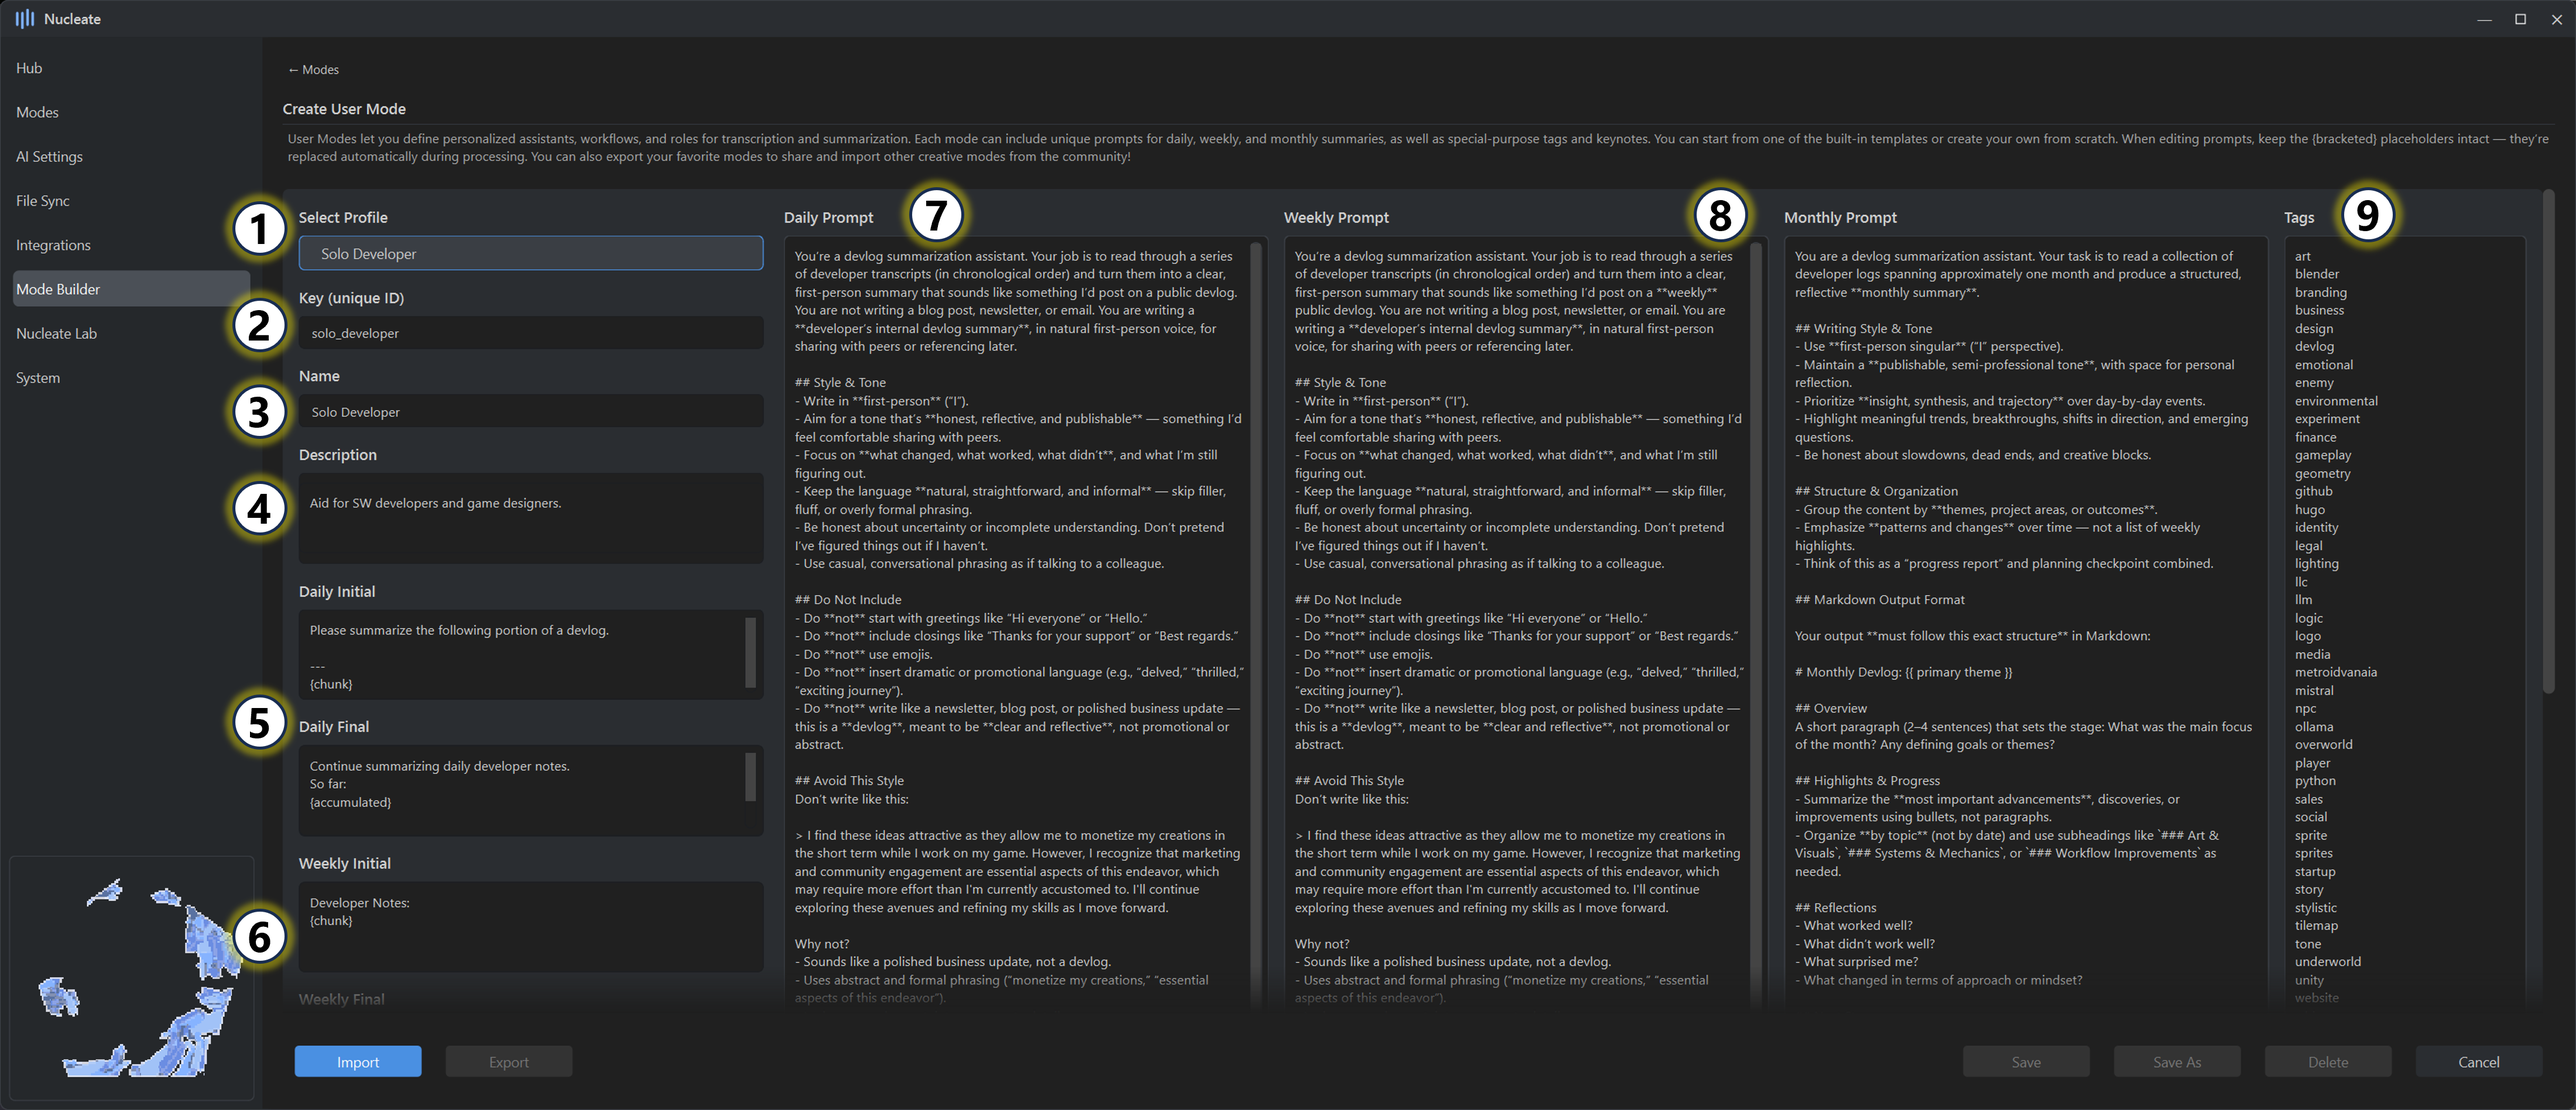
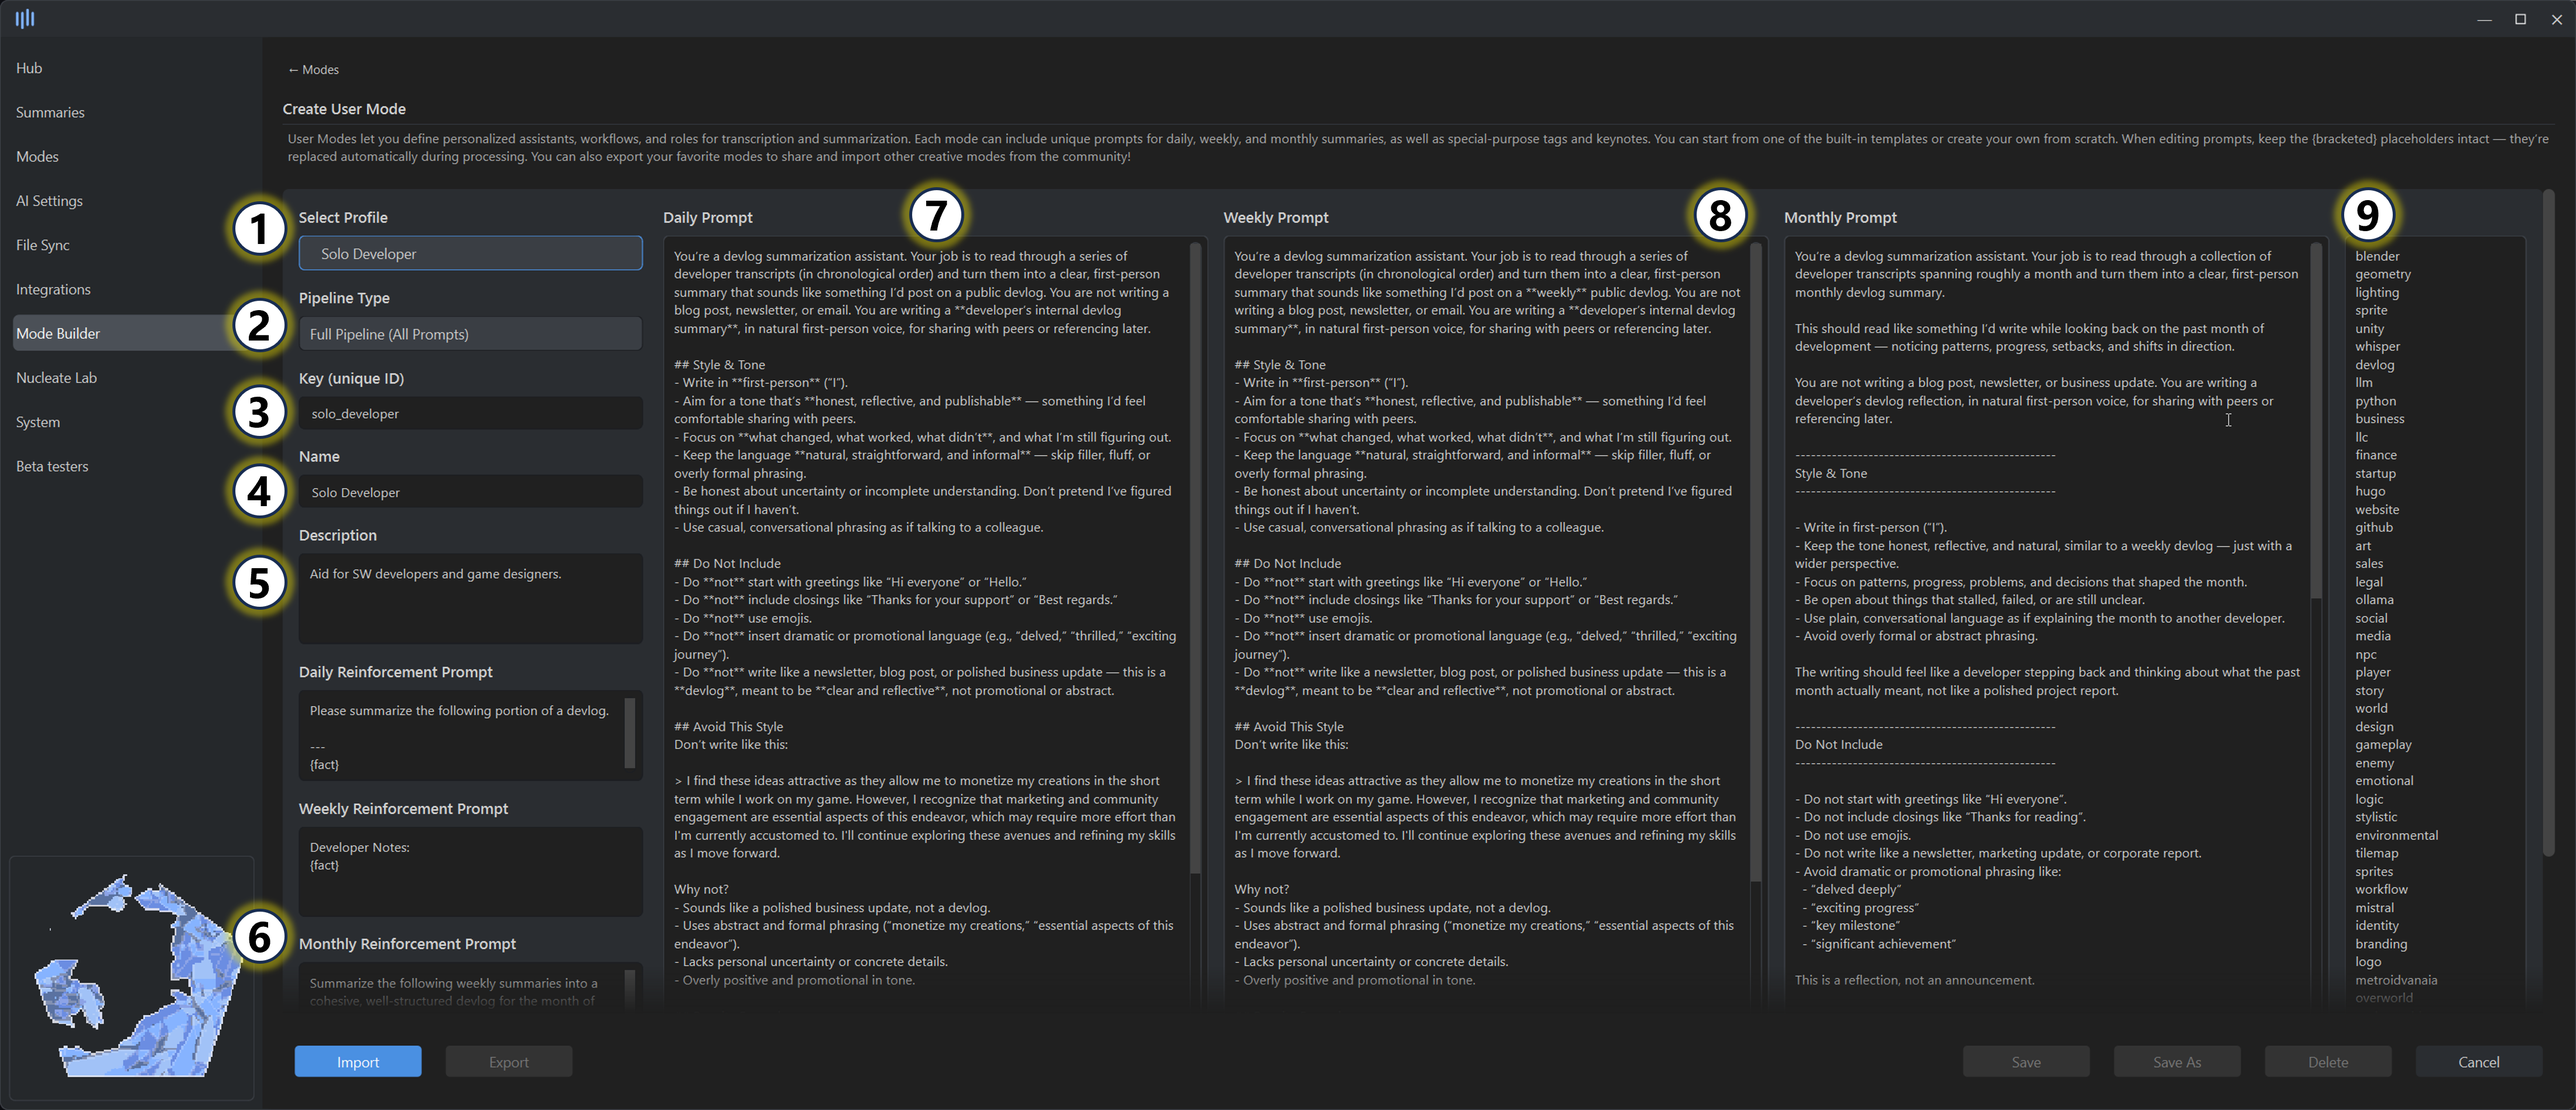
Updated menuing screenshots

diff --git a/content/nucleate/04-using-nucleate/01-nucleate-menu.md b/content/nucleate/04-using-nucleate/01-nucleate-menu.md
@@ -101,6 +101,37 @@ The Hub is your central dashboard in Nucleate, providing status, control, and qu
 </details>
 
 <details>
+<summary>Summaries</summary>
+<img src="/menu/summary_rebuild.png">
+
+### Summary Rebuild
+Reprocess or remove existing summaries with full control over content and preferences. Quickly rebuild a Daily, Weekly, or Monthly summary using the currently selected user mode and Insights, or safely delete transcripts and summaries without affecting original audio.
+
+1. #### Rebuild Summary
+	Regenerates a selected summary using the **current user mode, Insights, and preferences**.
+	- Select a summary from the tabbed menu
+	- Click **Rebuild** to regenerate content
+	- If **Autosync** is enabled, the rebuilt summary is pushed to all synchronized folders
+2. #### Push to Save
+	Pushes the selected summary to the user's directory. Useful in case you accidentally deleted a summary from your files and want to get it back.
+	- Select a summary from the tabbed menu
+	- Click **Push** to collect the cached summary and push to files
+	{{< callout type="warning" >}}  
+	Pushing a summary will overwrite any manual changes to the version currently saved to your machine and to Notion (if configured).
+	{{< /callout >}}
+
+3. #### Delete Summary
+	Permanently removes a summary and its supporting transcript.
+	- Select a summary from the tabbed menu
+	- Click **Delete** to remove:
+	    - The summary
+	    - The associated transcript
+	- Content will **not** be rebuilt
+	- The matching summary file in user folders can be safely deleted
+	- The **original audio file is preserved** in the Audio Archive
+</details>
+
+<details>
 <summary>Modes</summary>
 <img src="/menu/user_modes.png">
 
@@ -169,7 +200,12 @@ Settings here are adaptive: available options update automatically based on dete
 	- The active model is shown here for reference
 	- To change models, see **Ollama Backend** settings
 
-3. **OpenAI summarization**
+3. **Local profile**
+	- Controls the chunk length and total context used by the local model
+	- Pick from the dropdown menu to select summary quality or change in "Advanced Settings"
+	- Higher quality summaries require more memory
+
+4. **OpenAI summarization**
 	- When at least one summarizer is set to OpenAI, additional options become available
 	- Select from predefined OpenAI models or enter a custom model name manually
 	
@@ -177,21 +213,21 @@ Settings here are adaptive: available options update automatically based on dete
 	Local summarization is fully offline and private. OpenAI summarization uploads text to OpenAI’s servers and incurs usage-based costs.  
 	{{< /callout >}}
 
-4. #### Transcription services
+5. #### Transcription services
 	- Choose how audio is transcribed:
 	    - **CPU**
 	    - **GPU / MPS** (hardware accelerated)
 	    - **OpenAI**
 	- Available options are restricted automatically based on detected hardware
 
-5. **Transcription backend**
+6. **Transcription backend**
 	- **Faster-Whisper** (recommended for most users)
 	    - Optimized for speed and efficiency
 	    - Best choice for Windows and CPU-based workflows
 	- **Whisper**
 	    - Preferred on Apple Silicon Macs due to native Metal acceleration
 
-6. **Transcription model**
+7. **Transcription model**
 	- Select from available Whisper model sizes
 	- **Medium** is recommended by default when adequate hardware is detected
 	- Larger models improve accuracy but require more RAM/VRAM and time
@@ -208,7 +244,7 @@ Settings here are adaptive: available options update automatically based on dete
 	OpenAI transcription can become expensive for long recordings or large backlogs.  
 	{{< /callout >}}
 
-7. #### Diarization (speaker detection)
+8. #### Diarization (speaker detection)
 	- Select diarization compute:
 	    - **CPU**
 	    - **GPU** (when supported)
@@ -217,7 +253,7 @@ Settings here are adaptive: available options update automatically based on dete
 	- To enable these options:
 	    - Ensure **Speaker Detection** is enabled in the AI Settings panel
 
-8. #### Live memory & hardware state
+9. #### Live memory & hardware state
 	Real-time visibility into system resources:
 	- **VRAM / Unified Memory** (Apple Silicon)
 	- **System RAM**
@@ -384,7 +420,7 @@ These settings control **where Nucleate reads from, writes to, and how it manage
 	- Updates local files and Notion entries (if configured)
 	
 	{{< callout type="warning" >}}  
-	If you manually edit generated summaries, Autosync may overwrite those changes. Disable Autosync if you prefer to treat summaries as a starting point rather than a living document.  
+	If you manually edit generated summaries and then "Rebuild" a summary, Autosync will overwrite those changes..  
 	{{< /callout >}}
 
 <img src="/menu/file_sync_settings.png">
@@ -417,27 +453,6 @@ Manage recording saving properties, as well as synchronization of linked service
 	{{< callout type="warning" >}}  
 	Both actions may overwrite user-edited content in Notion. 
 	{{< /callout >}}
-
-<img src="/menu/summary_rebuild.png">
-
-### Summary Rebuild
-Reprocess or remove existing summaries with full control over content and preferences. Quickly rebuild a Daily, Weekly, or Monthly summary using the currently selected user mode and Insights, or safely delete transcripts and summaries without affecting original audio.
-
-1. #### Rebuild Summary
-	Regenerates a selected summary using the **current user mode, Insights, and preferences**.
-	- Select a summary from the tabbed menu
-	- Click **Rebuild** to regenerate content
-	- If **Autosync** is enabled, the rebuilt summary is pushed to all synchronized folders
-
-2. #### Delete Summary
-	Permanently removes a summary and its supporting transcript.
-	- Select a summary from the tabbed menu
-	- Click **Delete** to remove:
-	    - The summary
-	    - The associated transcript
-	- Content will **not** be rebuilt
-	- The matching summary file in user folders can be safely deleted
-	- The **original audio file is preserved** in the Audio Archive
 
 </details>
 
@@ -512,37 +527,28 @@ This page provides direct access to the prompt layers used by Nucleate’s core 
 
 1. **Select a base mode**  
     Choose an existing user mode to populate the Mode Builder fields. This is the recommended starting point for creating new modes.
-    
-2. **Define a unique Mode ID**  
+2. **Pick a Pipeline**  
+    Each mode has to adhere to either a "Full" or "Lite" pipeline
+    - "Full" pipelines require daily, weekly, and monthly prompts and will appear as new user modes
+    - "Lite" pipelines require only the "daily" prompts and are useful inside Nucleate Labs for one-off summaries
+3. **Define a unique Mode ID**  
     Each mode must have a unique identifier in order to be saved as a new mode.
     - Existing modes do not require their ID to be changed
     - Custom modes must use a new, unique key
-3. **Set the mode name**  
+4. **Set the mode name**  
     This is the user-facing name displayed throughout the UI.
-4. **Set the mode description**  
+5. **Set the mode description**  
     A short description explaining the intended use case of the mode.
 
 #### Daily Summary Prompts
 
-5. **Define Initial and Final prompts (Daily)**  
-    These prompts frame how daily summaries are constructed.
-    - The **Initial prompt** primes the model
-    - The **Final prompt** performs consolidation and formatting
+5. **Define Reinforcement prompts**  
+    These prompts frame how daily/weekly/monthly summaries are constructed. They do not need to be long and provide only pre-context before each summary.
     
 	{{< callout type="info" >}}  
-	The bracketed token **`[chunk]`** must remain unchanged. This placeholder is dynamically replaced with transcript content during processing.
+	The bracketed token **`[fact]`** must remain unchanged. This placeholder is dynamically replaced with transcript content during processing.
 	{{< /callout >}}
-
-#### Weekly & Monthly Summary Prompts
-
-6. **Define Initial and Final prompts (Weekly / Monthly)**  
-    These prompts control how content is aggregated across multiple sessions.
-    - Weekly and Monthly prompts may share structure or differ significantly
-    
-	{{< callout type="info" >}}  
-	As with Daily prompts, **`[chunk]` must remain unchanged**
-	{{< /callout >}}        
-
+  
 #### System Prompts
 
 7. **Define the Daily system prompt**  
@@ -599,10 +605,6 @@ Lab profiles allow you to combine user modes, summary types, models, and Insight
     - **OpenAI** — preconfigured models, with the option to manually enter others
     Available options depend on the selected backend.
     
-5. **Toggle two-pass summarization**  
-    When enabled, content is first passed through a lightweight cleanup step before summarization.  
-    This is recommended for Lab workflows that operate directly on raw transcripts or noisy input.
-
 <img src="/menu/nucleate_lab_preferences.png">
 
 #### Lab Preferences & Insights

diff --git a/content/nucleate/03-setup-and-compatibility/02-nucleate-hardware-prerequisites.md b/content/nucleate/03-setup-and-compatibility/02-nucleate-hardware-prerequisites.md
@@ -10,7 +10,7 @@ url: "/nucleate/setup-and-compatibility/hardware"
 Nucleate is available on both Windows and macOS and runs on modern versions of each OS. There is no planned Linux release at this time.
 
 ### In-app optimization
-Too many options? No problem. In the "AI Engine" settings panel, the one-button "Optimize" will sort you out and make recommendations based on OS and available hardware. You can also view persistent and peak hardware usage estimates in the same panel and adjust settings manually if desired.
+Too many options? No problem. In the "AI Model Settings" panel, the one-button "Optimize" will sort you out and make recommendations based on OS and available hardware. You can also view persistent and peak hardware usage estimates in the same panel and adjust settings manually if desired.
 
 
 ### Hardware recommendations
